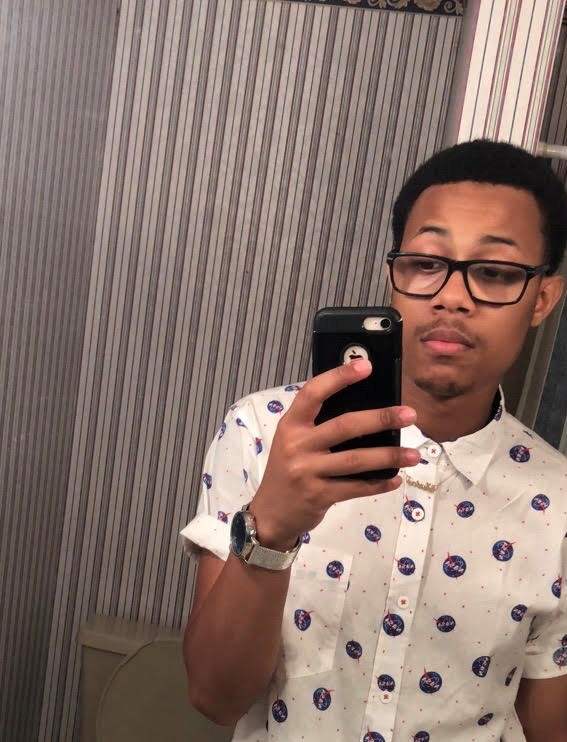
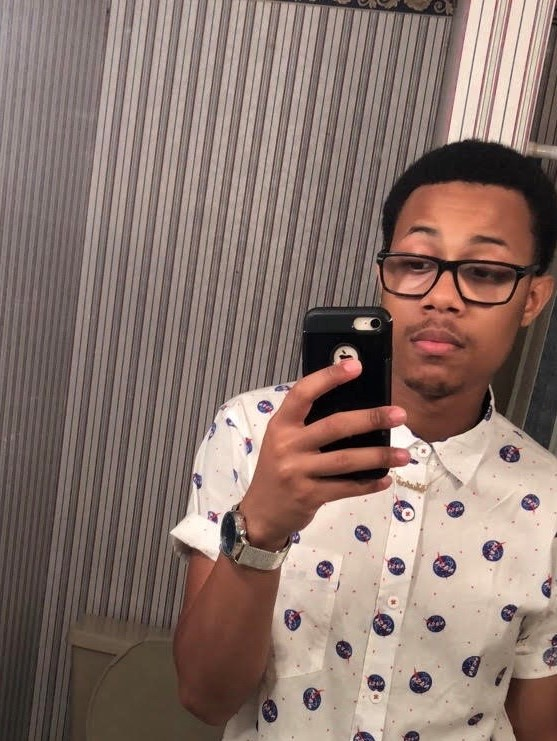
Cropping all photos to a 4:3 aspect ratio

diff --git a/secure_html/index.html b/secure_html/index.html
@@ -32,9 +32,5 @@
 		<h1 class="text-5xl text-white text-center">OpticalPath</h1>
 		<h1 class="text-2xl p-4 text-white text-center">by Team Bronze</h1>
 	</div>
-
-	<h3></h3>
-	<p></p>
 </body>
-
 </html>
